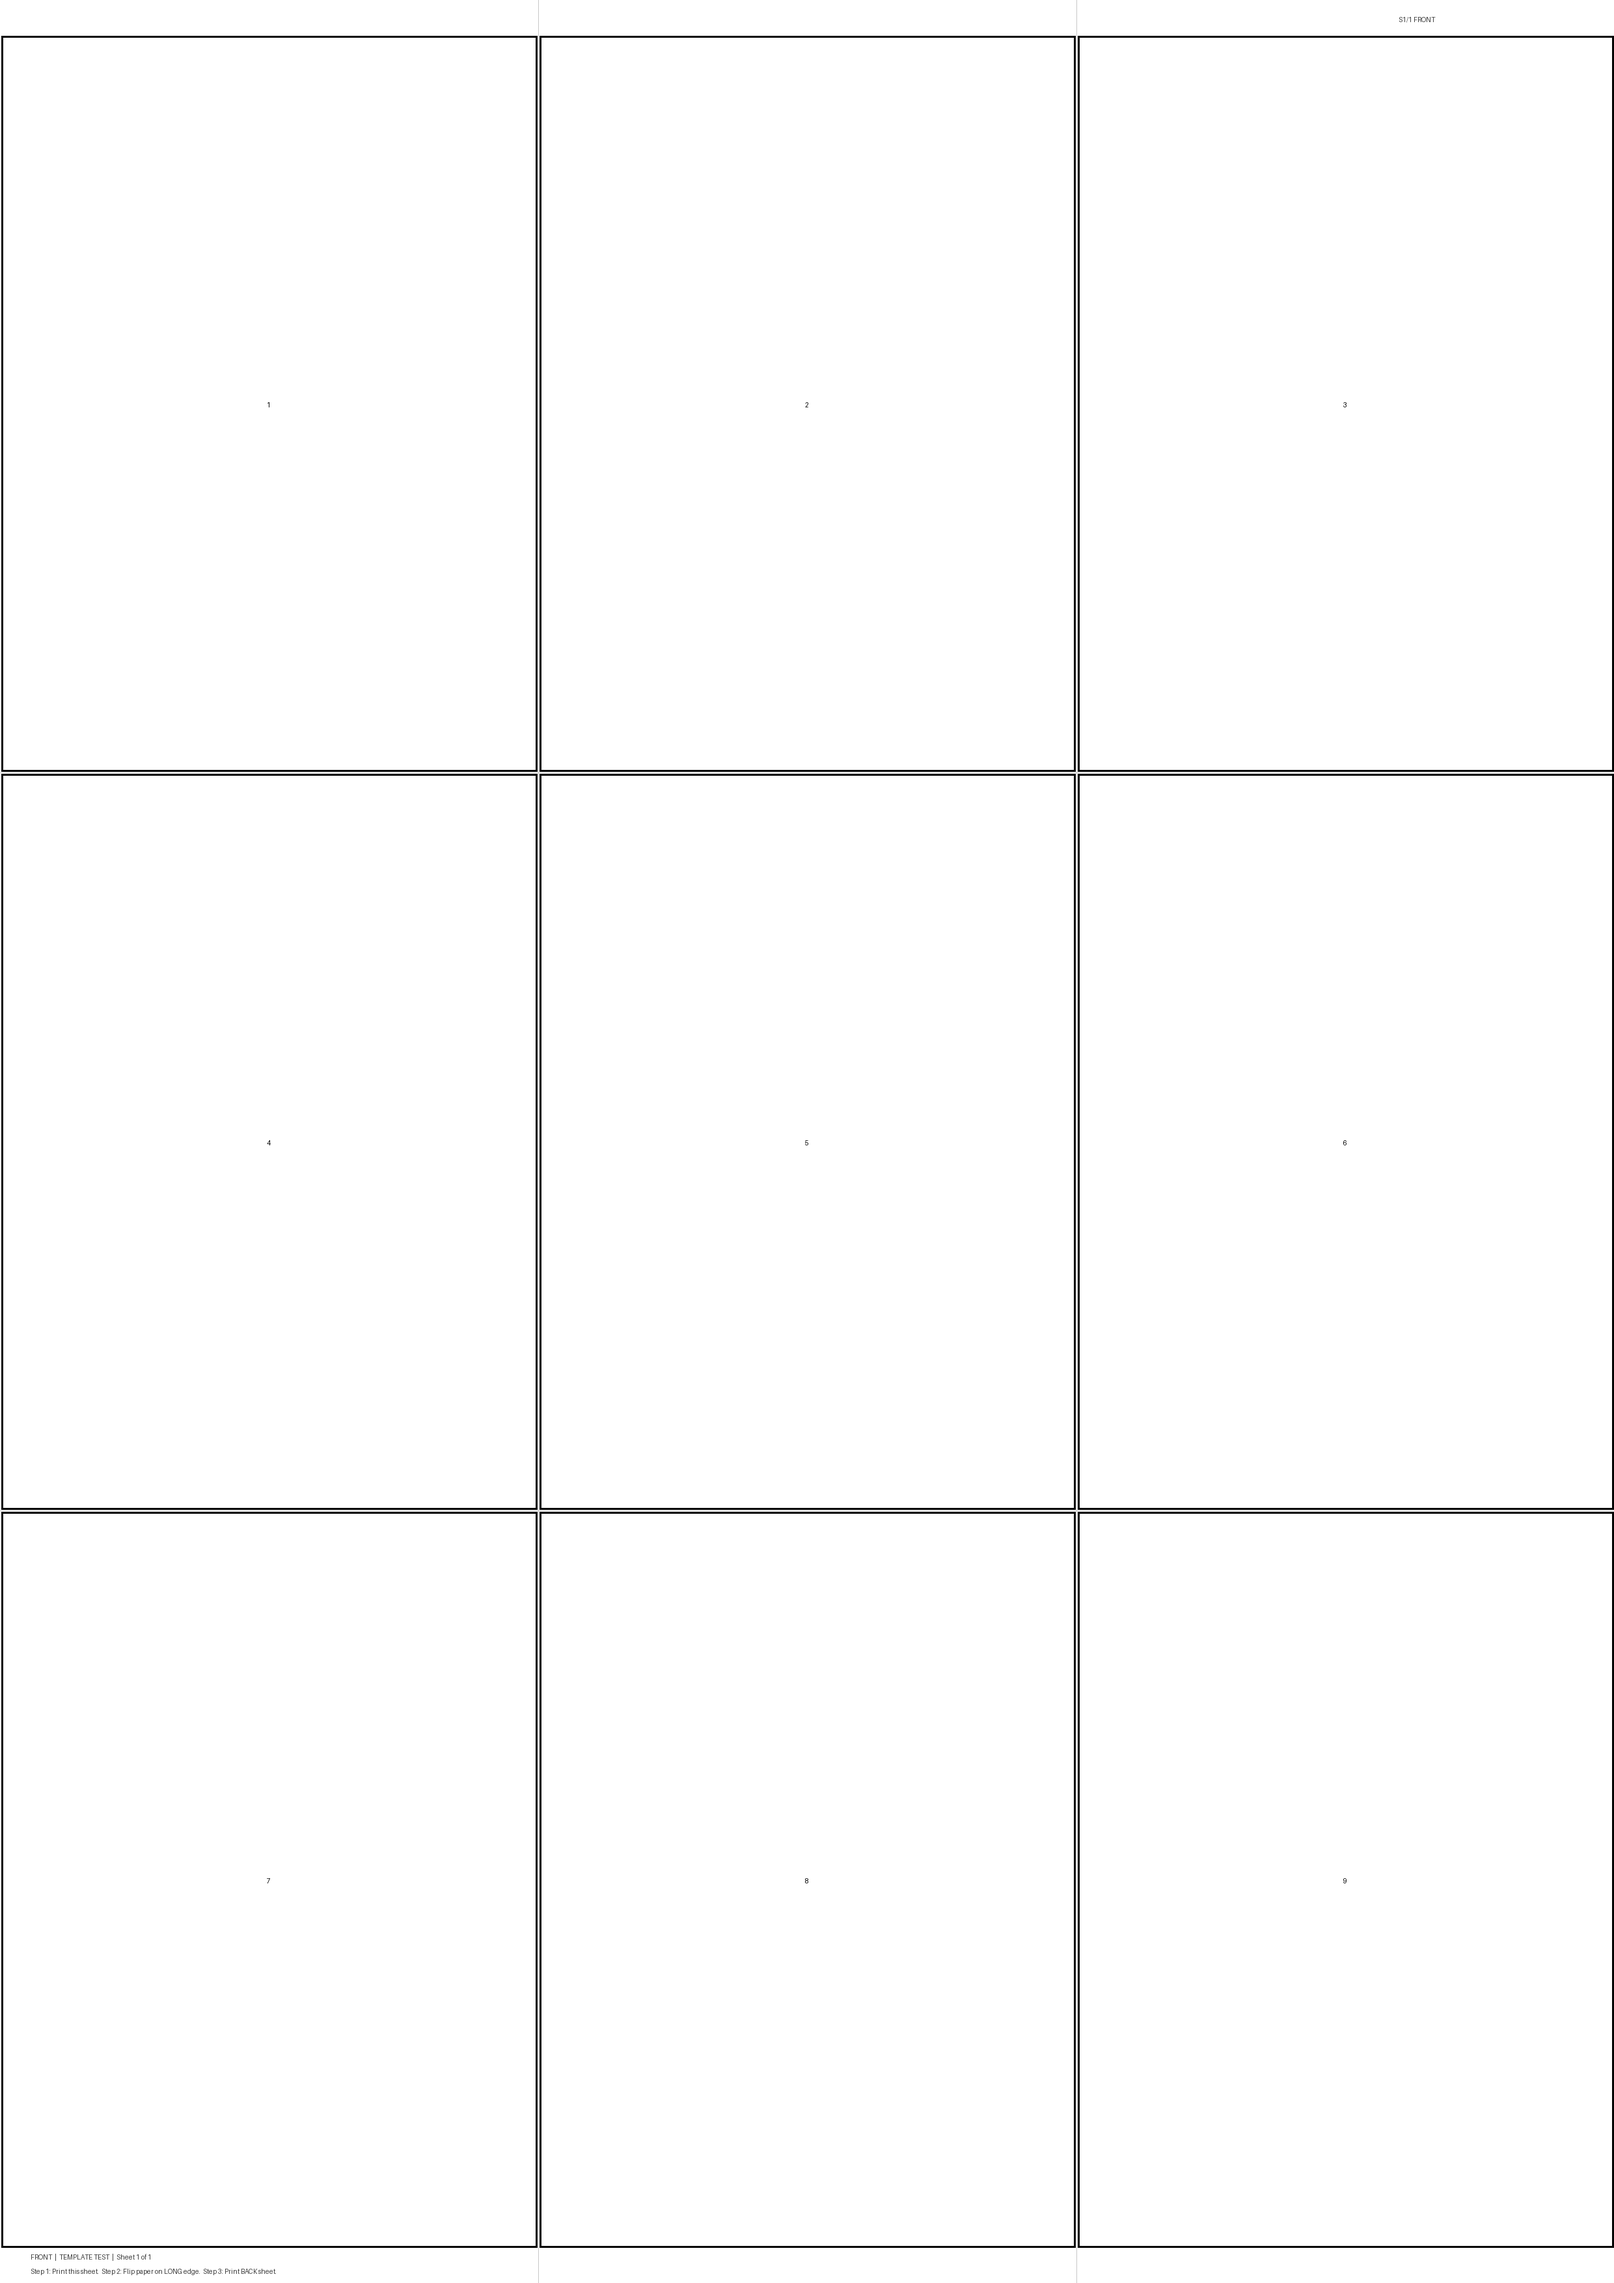
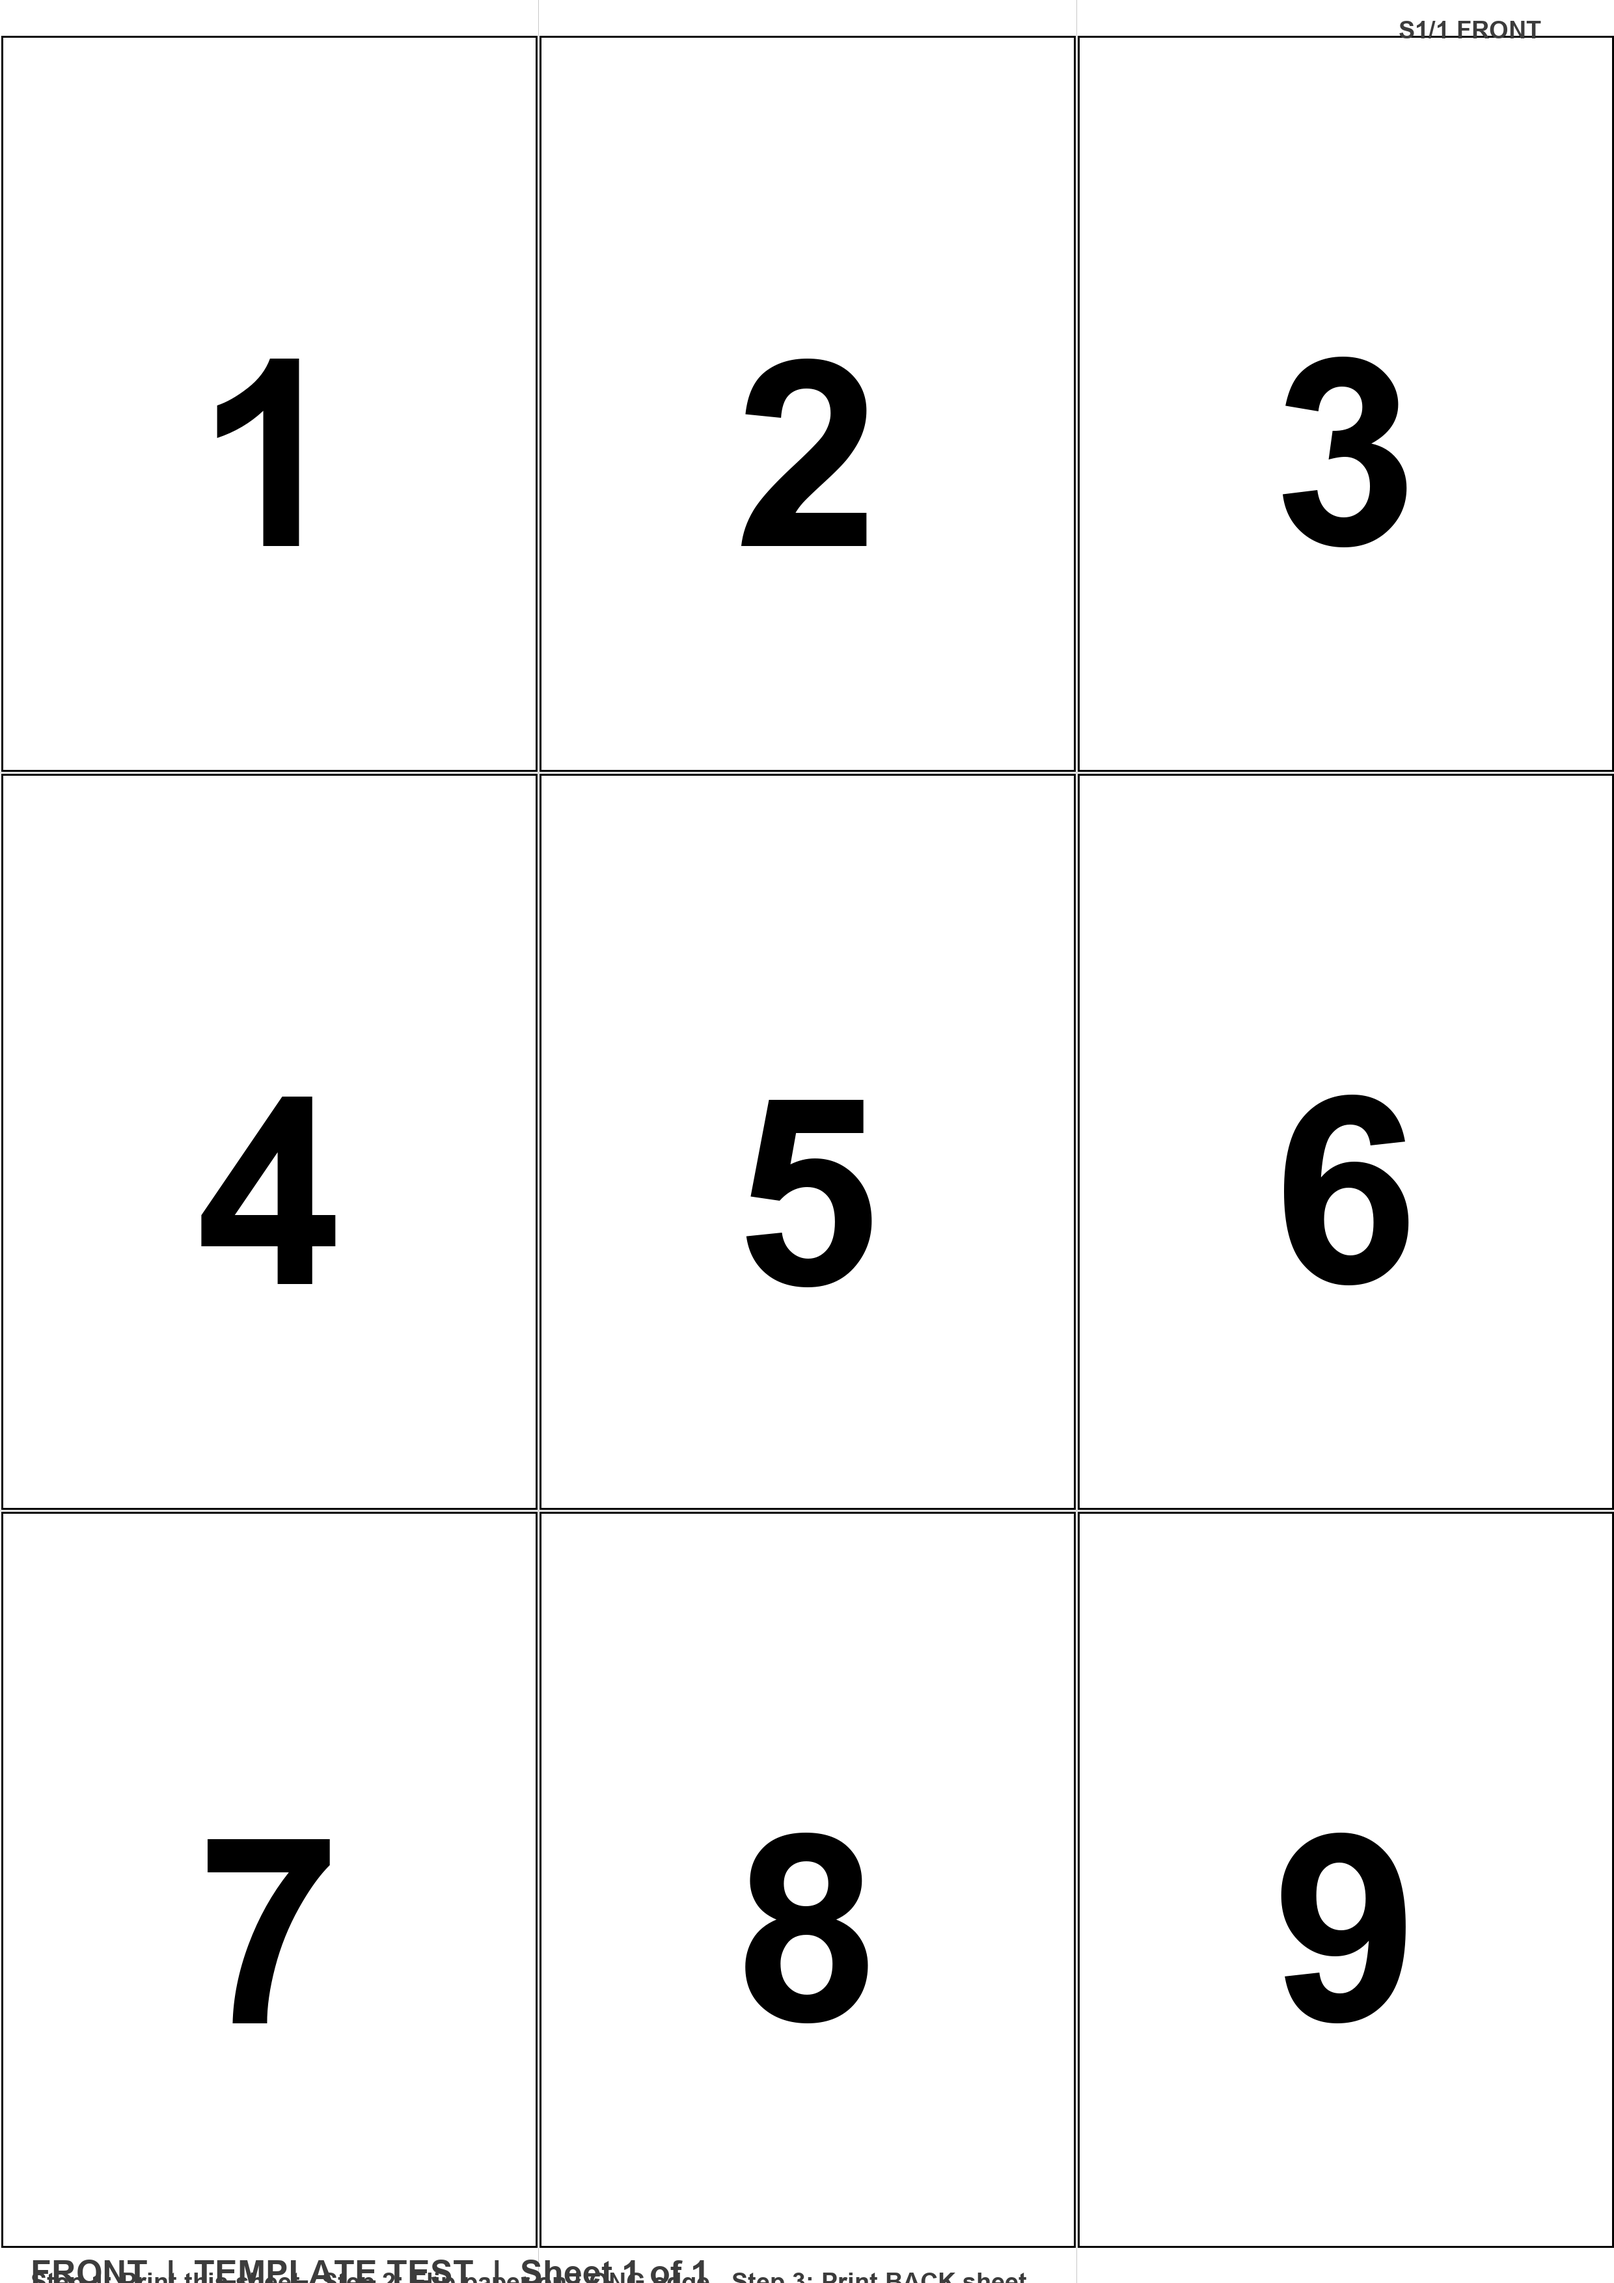
Printing: template -- full font path, 400px bold Arial numbers

diff --git a/games/arkham-lcg/printing/make_sheets.py b/games/arkham-lcg/printing/make_sheets.py
@@ -124,7 +124,7 @@ def draw_instructions(sheet, sheet_num, total_sheets, side, pack_name):
     # Try system fonts at large size — fall back to default
     font_large = None
     font_small = None
-    for font_name in ["arialbd.ttf", "arial.ttf", "DejaVuSans-Bold.ttf", "DejaVuSans.ttf"]:
+    for font_name in [r"C:\Windows\Fonts\arialbd.ttf", r"C:\Windows\Fonts\arial.ttf"]:
         try:
             font_large = ImageFont.truetype(font_name, 52)
             font_small = ImageFont.truetype(font_name, 38)
@@ -165,13 +165,7 @@ def make_template_sheet(output_dir: Path, total_cards=9):
     """Generate a minimal ink test template -- white cards with number and outline only."""
     output_dir.mkdir(parents=True, exist_ok=True)
 
-    try:
-        font = ImageFont.truetype("arialbd.ttf", 400)
-    except:
-        try:
-            font = ImageFont.truetype("arial.ttf", 400)
-        except:
-            font = ImageFont.load_default()
+    font = ImageFont.truetype(r"C:\Windows\Fonts\arialbd.ttf", 400)
 
     for side in ["front", "back"]:
         sheet = make_blank(A4_W, A4_H, (255, 255, 255))
